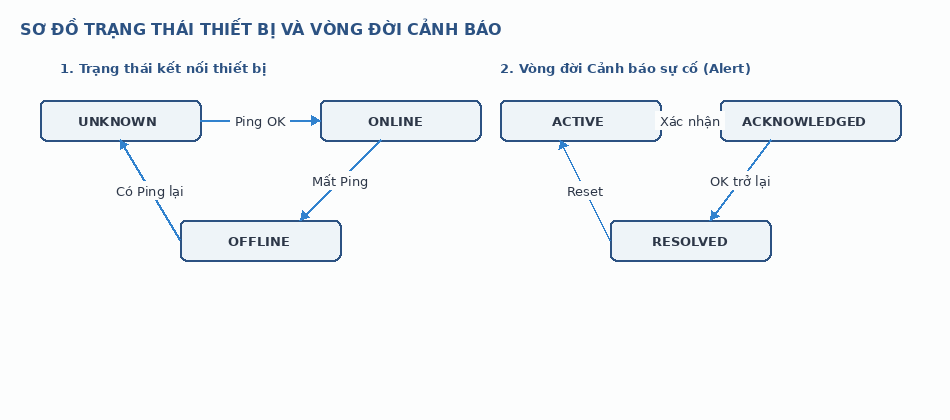
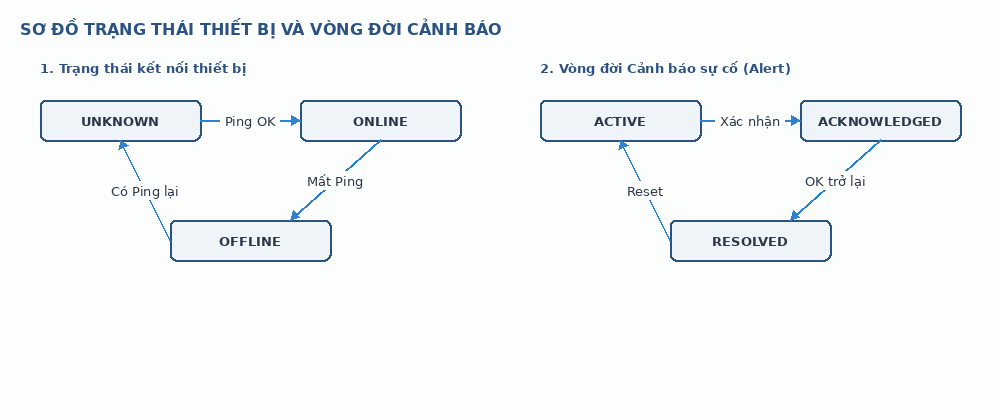
docs: improve state diagram symmetry and center box text alignment

diff --git a/scratch/generate_diagrams.py b/scratch/generate_diagrams.py
@@ -88,6 +88,15 @@ def draw_class_box(draw, x, y, title, lines, width=280, height=180):
         draw.text((x + 12, yy), line, fill=TEXT_COLOR, font=font)
         yy += 18
 
+def draw_state_box(draw, coords, label):
+    draw_rounded_rect(draw, coords, 5, BOX_BG, BORDER_COLOR)
+    x1, y1, x2, y2 = coords
+    w = draw.textlength(label, font=font_bold)
+    tx = x1 + (x2 - x1 - w) / 2
+    ty = y1 + (y2 - y1 - 14) / 2
+    draw.text((tx, ty), label, fill=TEXT_COLOR, font=font_bold)
+
+
 # ==========================================
 # 1. Architecture Diagram
 # ==========================================
@@ -322,40 +331,29 @@ img.save(os.path.join(output_dir, "activity_diagram.png"))
 # ==========================================
 # 5. State Diagram
 # ==========================================
-img = Image.new('RGB', (950, 420), BG_COLOR)
+img = Image.new('RGB', (1000, 420), BG_COLOR)
 draw = ImageDraw.Draw(img)
 draw.text((20, 20), "SƠ ĐỒ TRẠNG THÁI THIẾT BỊ VÀ VÒNG ĐỜI CẢNH BÁO", fill=BORDER_COLOR, font=font_title)
 
-# Device Connection state
-draw.text((60, 60), "1. Trạng thái kết nối thiết bị", fill=BORDER_COLOR, font=font_bold)
-draw_rounded_rect(draw, [40, 100, 200, 140], 5, BOX_BG, BORDER_COLOR)
-draw.text((78, 113), "UNKNOWN", fill=TEXT_COLOR, font=font_bold)
+# Device Connection state (Symmetrical layout)
+draw.text((40, 60), "1. Trạng thái kết nối thiết bị", fill=BORDER_COLOR, font=font_bold)
+draw_state_box(draw, [40, 100, 200, 140], "UNKNOWN")
+draw_state_box(draw, [300, 100, 460, 140], "ONLINE")
+draw_state_box(draw, [170, 220, 330, 260], "OFFLINE")
 
-draw_rounded_rect(draw, [320, 100, 480, 140], 5, BOX_BG, BORDER_COLOR)
-draw.text((368, 113), "ONLINE", fill=TEXT_COLOR, font=font_bold)
+draw_arrow(draw, (200, 120), (300, 120), "Ping OK")
+draw_arrow(draw, (380, 140), (290, 220), "Mất Ping")
+draw_arrow(draw, (170, 240), (120, 140), "Có Ping lại")
 
-draw_rounded_rect(draw, [180, 220, 340, 260], 5, BOX_BG, BORDER_COLOR)
-draw.text((228, 233), "OFFLINE", fill=TEXT_COLOR, font=font_bold)
+# Alert state (Symmetrical layout aligned with left side)
+draw.text((540, 60), "2. Vòng đời Cảnh báo sự cố (Alert)", fill=BORDER_COLOR, font=font_bold)
+draw_state_box(draw, [540, 100, 700, 140], "ACTIVE")
+draw_state_box(draw, [800, 100, 960, 140], "ACKNOWLEDGED")
+draw_state_box(draw, [670, 220, 830, 260], "RESOLVED")
 
-draw_arrow(draw, (200, 120), (320, 120), "Ping OK")
-draw_arrow(draw, (380, 140), (300, 220), "Mất Ping")
-draw_arrow(draw, (180, 240), (120, 140), "Có Ping lại")
-
-# Alert state
-draw.text((500, 60), "2. Vòng đời Cảnh báo sự cố (Alert)", fill=BORDER_COLOR, font=font_bold)
-
-draw_rounded_rect(draw, [500, 100, 660, 140], 5, BOX_BG, BORDER_COLOR)
-draw.text((552, 113), "ACTIVE", fill=TEXT_COLOR, font=font_bold)
-
-draw_rounded_rect(draw, [720, 100, 900, 140], 5, BOX_BG, BORDER_COLOR)
-draw.text((742, 113), "ACKNOWLEDGED", fill=TEXT_COLOR, font=font_bold)
-
-draw_rounded_rect(draw, [610, 220, 770, 260], 5, BOX_BG, BORDER_COLOR)
-draw.text((652, 233), "RESOLVED", fill=TEXT_COLOR, font=font_bold)
-
-draw_arrow(draw, (660, 120), (720, 120), "Xác nhận")
-draw_arrow(draw, (770, 140), (710, 220), "OK trở lại")
-draw_arrow(draw, (610, 240), (560, 140), "Reset")
+draw_arrow(draw, (700, 120), (800, 120), "Xác nhận")
+draw_arrow(draw, (880, 140), (790, 220), "OK trở lại")
+draw_arrow(draw, (670, 240), (620, 140), "Reset")
 
 img.save(os.path.join(output_dir, "state_diagram.png"))
 
